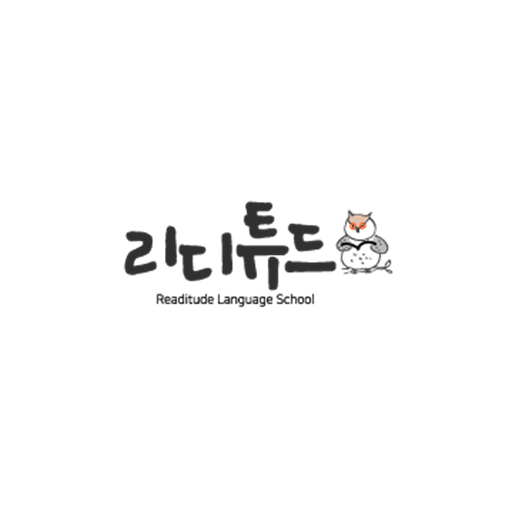
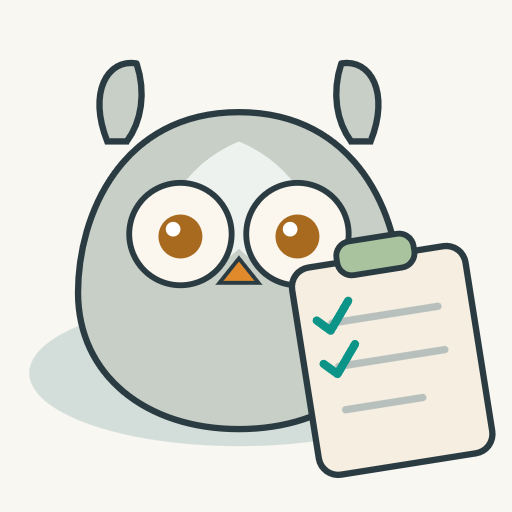
앱 아이콘을 부엉이 마스코트로 교체
기존 아이콘은 리디튜드 가로형 워드마크를 정사각형에 넣은 것이라
흰 여백이 대부분이고 글자가 작아 폰 홈 화면에서 알아보기 어려웠다.
가로형 워드마크는 정사각형 아이콘에 맞출 수 없어 그림 자체를 교체.

- readiplan-logo.svg에서 부엉이+체크리스트 보드만 떼어 정사각형 아이콘용
  readiplan-icon.svg 신규 작성(배경은 매니페스트 background_color와 동일)
- icon-192 / icon-512 / apple-touch-icon(180) 재생성
- 학생 폰의 옛 아이콘 캐시가 지워지도록 sw.js CACHE_VERSION을 v2로 올림

diff --git a/public/sw.js b/public/sw.js
@@ -1,7 +1,7 @@
 // 리디플랜 서비스워커 — "홈 화면에 추가"(PWA 설치)를 위한 최소 구성.
 // 원칙: 학생별 데이터(HTML/API)는 절대 캐시하지 않는다. 로고·아이콘 같은 /assets 정적 파일만 캐시.
 // 코드를 고치면 아래 CACHE_VERSION 숫자만 올리면 학생 폰에서 옛날 캐시가 자동으로 지워집니다.
-const CACHE_VERSION = 'rdplan-v1';
+const CACHE_VERSION = 'rdplan-v2'; // v2: 앱 아이콘을 부엉이 마스코트로 교체(2026-07-29)
 
 self.addEventListener('install', (e) => {
     self.skipWaiting();
